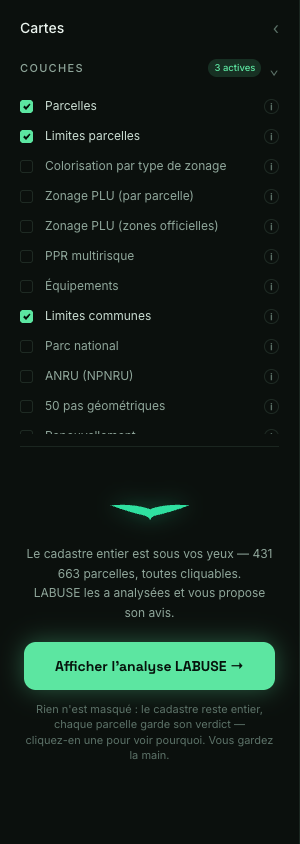
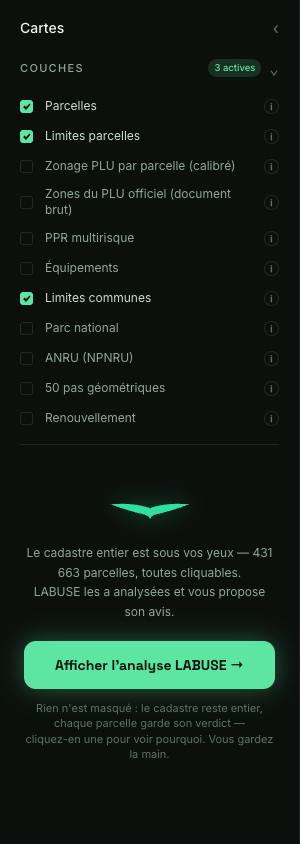
M55-A point 1 — Fusion A : une seule couche parcellaire + zonage officiel renommé
Décision Vic (10/08). `zonage_colorise` supprimée (store, panneau, MapView, Legend,
LAYER_INFO) et fusionnée dans `zonage_parcelle` : la couche parcellaire unique colore
d'emblée toutes les parcelles (lecture d'ensemble) ET révèle le code au zoom + popup au
clic — plus de doublon. Libellés :
- « Zonage PLU par parcelle (calibré) » (calé cadastre par LABUSE)
- « Zones du PLU officiel (document brut) » (flux GPU ; couvre aussi voirie/domaine public,
  détaillé dans le « i »).
Saint-Philippe (0 zone GPU, 9/4162 parcelles calées → RNU) : toast « commune au RNU — pas
de zonage PLU » quand une couche zonage y est active, plutôt qu'un fond vide muet. « i »
des deux couches réécrits en conséquence.

tsc 0, vitest 26/26, npm run build vert. Capture reports/m55-a-couches/captures/.

diff --git a/frontend/src/components/panel/LeftPanel.tsx b/frontend/src/components/panel/LeftPanel.tsx
@@ -40,24 +40,24 @@ function AlgoExplainer({ onClose }: { onClose: () => void }) {
 // M12 C4 — ORDRE des couches, du PLUS UTILISÉ au moins utilisé (justif. au rapport) :
 //  1. parcelles       — la couche de travail (verdict coloré) — vue à chaque session
 //  2. limites         — contour cadastral, référence constante posée sur le fond
-//  3. zonage_colorise — lecture d'ensemble de la constructibilité (nouveau, C5) — geste rapide
-//  4. zonage_parcelle — zone précise à la parcelle (étiquette + clic) — le détail
-//  5. zonage          — zones officielles brutes du GPU — moins fréquent (déjà couvert par 3/4)
-//  6. ppr             — écran risques, filtre d'exclusion précoce fréquent
-//  7. equipements     — contexte de proximité, courant en due diligence
-//  8. communes        — repère communal (défaut ON, rarement basculé)
-//  9. parc            — Parc national, situationnel (relief/mi-pentes)
-// 10. anru            — périmètres de renouvellement, de niche
-// 11. cinquante_pas   — bande littorale, la plus rare (communes côtières uniquement)
+//  3. zonage_parcelle — couche PARCELLAIRE UNIQUE (M55-A fusion A) : colore toutes les parcelles
+//                       par famille + code au zoom/clic — remplace « colorisation » + « par parcelle »
+//  4. zonage          — zones officielles brutes du GPU (document opposable) — moins fréquent
+//  5. ppr             — écran risques, filtre d'exclusion précoce fréquent
+//  6. equipements     — contexte de proximité, courant en due diligence
+//  7. communes        — repère communal (défaut ON, rarement basculé)
+//  8. parc            — Parc national, situationnel (relief/mi-pentes)
+//  9. anru            — périmètres de renouvellement, de niche
+// 10. cinquante_pas   — bande littorale, la plus rare (communes côtières uniquement)
 const LAYERS: { key: keyof LayerToggles; label: string }[] = [
   { key: 'parcelles', label: 'Parcelles' },
   { key: 'limites', label: 'Limites parcelles' },
-  // M12 C5 : colorise TOUTES les parcelles par type de zone, sans clic — à côté (pas à la place)
-  { key: 'zonage_colorise', label: 'Colorisation par type de zonage' },
-  // M6.1 item 1 : recoloration + étiquette de la zone précise au zoom et au clic
-  { key: 'zonage_parcelle', label: 'Zonage PLU (par parcelle)' },
-  // Point 12 : zones OFFICIELLES du GPU (polygones bruts), distinctes du rattachement à la parcelle
-  { key: 'zonage', label: 'Zonage PLU (zones officielles)' },
+  // M55-A (fusion A) : couche PARCELLAIRE UNIQUE — colore d'emblée toutes les parcelles par famille
+  // ET révèle le code exact au zoom / au clic (l'ancienne case « Colorisation » est fusionnée ici).
+  { key: 'zonage_parcelle', label: 'Zonage PLU par parcelle (calibré)' },
+  // M55-A : zones OFFICIELLES du GPU (polygones bruts du document opposable) — distinctes du
+  // rattachement calibré à la parcelle ; couvrent aussi l'espace non parcellaire (voirie, domaine public).
+  { key: 'zonage', label: 'Zones du PLU officiel (document brut)' },
   { key: 'ppr', label: 'PPR multirisque' },
   { key: 'equipements', label: 'Équipements' },
   { key: 'communes', label: 'Limites communes' },

diff --git a/frontend/src/lib/layers.ts b/frontend/src/lib/layers.ts
@@ -58,15 +58,14 @@ export const layerLabel = (key: string): string => LAYER_LABEL[key] ?? key
 // JSX. La clé = la clé de `LayerToggles` (store useApp). Une phrase, sans jargon.
 // ─────────────────────────────────────────────────────────────────────────────
 export const LAYER_INFO: Record<string, string> = {
+  // M55-A (fusion A) : DEUX couches de zonage seulement. La couche PARCELLAIRE (calibrée) fait tout —
+  // colorer d'ensemble + code au zoom/clic ; la couche OFFICIELLE montre le document GPU brut.
   zonage:
-    'Les zones du PLU telles que déposées officiellement par la commune sur le Géoportail de l’urbanisme (source GPU) : les grands aplats de couleur, avec leurs contours d’origine — qui ne suivent pas forcément le découpage cadastral. C’est le document opposable de référence. À la différence de « Zonage PLU (par parcelle) » (qui colore chaque parcelle et affiche son code de zone au clic) et de « Colorisation par type de zonage » (qui teinte toutes les parcelles d’un coup), cette couche montre le zonage brut, non rattaché aux parcelles.',
+    'Les zones du PLU telles que déposées par la commune sur le Géoportail de l’urbanisme (flux GPU) : les aplats bruts du document opposable, avec leurs contours d’origine. Non rattachés au cadastre : ils couvrent AUSSI l’espace non parcellaire (voirie, ravines, domaine public), d’où des couleurs là où la couche « par parcelle » n’en montre pas. Couverture : 23 des 24 communes — Saint-Philippe, au RNU, n’a pas de PLU numérisé.',
   zonage_parcelle:
-    'Chaque parcelle prend la couleur de sa zone du PLU. En zoomant, ou en cliquant une parcelle, le code exact de la zone (par ex. U1a, 1AUc) s’affiche.',
-  zonage_colorise:
-    'Colorie d’un coup TOUTES les parcelles selon leur type de zone (urbaine, à urbaniser, agricole, naturelle) — sans avoir à cliquer parcelle par parcelle. Une lecture d’ensemble du potentiel de constructibilité.',
+    'La couche de zonage à utiliser au quotidien : chaque parcelle prend d’emblée la couleur de sa famille de zone (U urbaine, AU à urbaniser, A agricole, N naturelle), calée sur le cadastre par LABUSE — une lecture d’ensemble de la constructibilité, sans cliquer. En zoomant, ou en cliquant une parcelle, le code exact (U1a, 1AUc…) s’affiche. Couverture : 99 % des parcelles ; absente là où la commune est au RNU (Saint-Philippe).',
   // M55-A item 6 : chaque « i » dit désormais CE QUE montre la couche, SA source, et SA
-  // couverture (partielle → dite franchement). Les trois « i » du zonage PLU sont traités à part
-  // (item 1, en attente d'arbitrage Vic sur le renommage) et restés en l'état pour l'instant.
+  // couverture (partielle → dite franchement).
   parcelles:
     'Les 431 663 parcelles cadastrales de l’île (source DGFiP), colorées selon l’avis de LABUSE : les plus prometteuses ressortent. C’est la couche de travail principale — présente sur les 24 communes.',
   ppr:

diff --git a/frontend/src/components/map/MapView.tsx b/frontend/src/components/map/MapView.tsx
@@ -230,7 +230,9 @@ export function MapView() {
   // M12 C5 : DEUX portes vers cette recoloration — « Zonage PLU (par parcelle) » (avec étiquette
   // au zoom + popup au clic) ET la nouvelle « Colorisation par type de zonage » (lecture
   // d'ensemble, sans clic). L'une OU l'autre allume le remplissage par famille.
-  const zonageColor = layers.zonage_parcelle || layers.zonage_colorise
+  // M55-A (fusion A) : une seule couche parcellaire (`zonage_parcelle`) — elle colore d'emblée
+  // toutes les parcelles par famille ET porte l'étiquette (zoom) + le popup (clic).
+  const zonageColor = layers.zonage_parcelle
   const zonageFill = zonageColor && (!ile || tilesMeta.data?.zonage_parcelle === true)
 
   // ───────────────────────── init ─────────────────────────
@@ -537,11 +539,20 @@ export function MapView() {
   // M6.1 item 1 (repli île) : la couche zonage est demandée mais les tuiles servies ne portent
   // pas encore zone_fam → le dire franchement (elle arrivera au prochain `labuse build-mvt`).
   useEffect(() => {
-    if (ile && (layers.zonage_parcelle || layers.zonage_colorise) && tilesMeta.data && !tilesMeta.data.zonage_parcelle) {
+    if (ile && layers.zonage_parcelle && tilesMeta.data && !tilesMeta.data.zonage_parcelle) {
       useApp.getState().setToast(
         'Colorisation par zonage en mode île : disponible au prochain build de tuiles — choisissez une commune pour l’utiliser dès maintenant.')
     }
-  }, [ile, layers.zonage_parcelle, layers.zonage_colorise, tilesMeta.data])
+  }, [ile, layers.zonage_parcelle, tilesMeta.data])
+
+  // M55-A (fusion A) : Saint-Philippe n'a PAS de PLU numérisé (0 zone GPU, 9/4162 parcelles calées) —
+  // c'est une commune au RNU. Quand une couche de zonage est active chez elle, le dire franchement
+  // plutôt qu'afficher un fond vide muet (même règle « no-silent » que l'ANRU / les 50 pas).
+  useEffect(() => {
+    if (commune === 'Saint-Philippe' && (layers.zonage_parcelle || layers.zonage)) {
+      useApp.getState().setToast('Saint-Philippe : commune au RNU — pas de zonage PLU.')
+    }
+  }, [commune, layers.zonage_parcelle, layers.zonage])
 
   // ───────────────────────── fond de plan + relief ─────────────────────────
   useEffect(() => {

diff --git a/frontend/src/store/useApp.ts b/frontend/src/store/useApp.ts
@@ -8,8 +8,9 @@ export type View = 'ia' | 'cartes' | 'crm' | 'sources' | 'projets' | 'copilote'
 
 export interface LayerToggles {
   zonage: boolean
-  zonage_parcelle: boolean // M6.1 : remplissage des PARCELLES par famille PLU (U/AU/A/N)
-  zonage_colorise: boolean // M12 C5 : colorise TOUTES les parcelles par type de zone (famille U/AU/A/N), sans clic
+  zonage_parcelle: boolean // M6.1 / M55-A : couche parcellaire UNIQUE — colore toutes les parcelles
+                           // par famille PLU (U/AU/A/N), + étiquette du code au zoom et popup au clic
+                           // (l'ancienne case « colorisation » y est fusionnée, M55-A fusion A)
   parcelles: boolean
   ppr: boolean
   parc: boolean
@@ -289,8 +290,9 @@ export const useApp = create<AppState>((set) => ({
   // `String(undefined)` sur une feature sans propriété idu) n'ouvre JAMAIS la fiche. Elle
   // afficherait un titre « undefined » et un faux « serveur injoignable ». `null` ferme la fiche.
   select: (idu) => set({ selectedIdu: idu === '' || idu === 'undefined' ? null : idu }),
-  // C (M12) : + zonage_colorise (colorisation d'emblée de toutes les parcelles par famille de zone)
-  layers: { zonage: false, zonage_parcelle: false, zonage_colorise: false, parcelles: true, ppr: false, parc: false, limites: true, anru: false, equipements: false, communes: true, cinquante_pas: false, renouv: false },
+  // M55-A (fusion A) : plus de `zonage_colorise` — la couche parcellaire unique `zonage_parcelle`
+  // colore d'emblée toutes les parcelles ET révèle le code au zoom/clic.
+  layers: { zonage: false, zonage_parcelle: false, parcelles: true, ppr: false, parc: false, limites: true, anru: false, equipements: false, communes: true, cinquante_pas: false, renouv: false },
   toggleLayer: (k) => set((s) => ({ layers: { ...s.layers, [k]: !s.layers[k] } })),
   panelOpen: true,
   togglePanel: () => set((s) => ({ panelOpen: !s.panelOpen })),

diff --git a/frontend/src/components/map/Legend.tsx b/frontend/src/components/map/Legend.tsx
@@ -29,7 +29,7 @@ export function Legend({ inline = false }: { inline?: boolean }) {
   const v2 = useV2Actif()
   // C7 : verdict REPLIÉ par défaut (libère la carte) — l'utilisateur le déplie s'il en a besoin.
   const [verdictOpen, setVerdictOpen] = useState(false)
-  const zonageOn = layers.zonage_parcelle || layers.zonage_colorise
+  const zonageOn = layers.zonage_parcelle // M55-A (fusion A) : couche parcellaire unique
 
   return (
     <div className={`${inline
